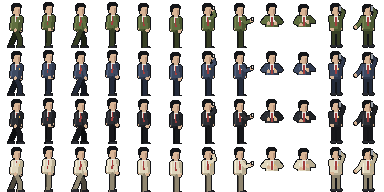
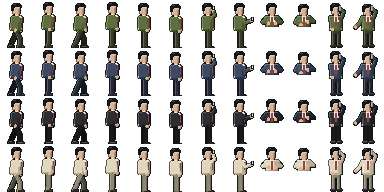
게임: 16비트 느낌으로 모든 스프라이트 다듬기, 의자가 실제 계단 칸을 따라 굴러 내려옴, 계단 아래 경쟁 사원은 서 있기, 경쟁 사원 머리·넥타이 고침
- 16비트: 왼쪽 위 하이라이트, 오른쪽 아래 두 단계 그림자, 밝은 쪽 외곽선을 옆 색으로(셀아웃), 머리카락 윤기 (사람·투척물·소품·포스트잇·계단)
- 의자: 위 계단 칸 윗면을 따라 칸마다 튀며 굴러 내려오고, 넘어가는 의자는 바로 윗칸에서 머리 위를 넘어 뒤쪽 계단 아래로 떨어짐
- 경쟁 사원 머리가 잘리던 것(고정 폭으로 자름) → 실제 머리 범위로, 옆모습 넥타이는 앞 가장자리 안쪽의 좁은 띠로
- QA: 자동 검사 0건, Designer QA 에이전트 검토 (머리카락 띠 지적 → 짧은 윤기로 고침)

diff --git a/demo_api/game.js b/demo_api/game.js
@@ -1416,7 +1416,7 @@ function drawPlayWorld() {
     const sx = 160 + (stairX(r.rivalIdx) - r.camX);
     const sy = PLAYER_Y + (-r.rivalIdx * CONFIG.stepH - r.camY);
     ctx.globalAlpha = 0.75;
-    drawSprite('rival', 'default', 'walk', time, sx, sy + 1 - Math.abs(Math.sin(time * 7)) * 1.5, { scale: MAN_SCALE, fw: 14 * MAN_SCALE, fh: 26 * MAN_SCALE, color: PAL.red, flip: dirAt(r.rivalIdx) < 0 });   // 걸으며 들썩
+    drawSprite('rival', 'default', 'idle', time, sx, sy + 1, { scale: MAN_SCALE, fw: 14 * MAN_SCALE, fh: 26 * MAN_SCALE, color: PAL.red, flip: dirAt(r.rivalIdx) < 0 });   // 계단 아래 끝에 서 있는 경쟁 사원 (서 있기)
     ctx.globalAlpha = 1;
   }
   // 플레이어
@@ -1599,16 +1599,21 @@ function drawChair(x, y, rot) {   // 사무실 의자: 남색 등받이·앉는 
   rect(-1, 0, 2, 4, '#9AA0A8'); rect(-5, 4, 10, 1, '#2A2C31'); rect(-5, 5, 2, 2, '#1E1F22'); rect(3, 5, 2, 2, '#1E1F22');
   ctx.restore();
 }
-function drawRollingChair(p, px) {   // 굴러오는 의자: 위 계단에서 통통 튀며 굴러 내려온다. 넘어가는 의자는 마지막에 크게 튀어 머리 위로 넘어가 아래로 계속 떨어진다
-  const r = run, s = p.side, tx = px + s * 8, ty = PLAYER_Y - 8, x0 = px + s * 90, y0 = PLAYER_Y - 70;
-  const u = clamp((r.time - p.spawnT) / Math.max(0.01, p.impactT - p.spawnT), 0, 1);
+function drawRollingChair(p, px) {   // 굴러오는 의자: 위 계단 칸들을 따라 한 칸씩 통통 튀며 굴러 내려온다 (칸 윗면 위).
+  // 넘어가는 의자는 바로 윗칸에서 크게 튀어 내 머리 위를 넘어 뒤쪽으로, 계단 아래로 계속 굴러 떨어진다
+  const r = run, s = p.side;
   if (r.time < p.spawnT) return;
+  const u = clamp((r.time - p.spawnT) / Math.max(0.01, p.impactT - p.spawnT), 0, 1);
+  const onTile = function (fi) { const i = Math.floor(fi), f = fi - i; return [160 + (lerp(stairX(i), stairX(i + 1), f) - r.camX), PLAYER_Y + (-fi * CONFIG.stepH - r.camY) - 7]; };   // 바퀴가 칸 윗면에 닿는 자리
   let x, y;
-  if (p.over && u > 0.75 || p.passed) {
-    const xa = lerp(x0, tx, 0.75), ya = lerp(y0, ty, 0.75);
-    if (r.time < p.impactT) { const v = (u - 0.75) / 0.25; x = lerp(xa, px - s * 30, v); y = lerp(ya, ty + 6, v) - Math.sin(v * Math.PI) * 40; }
-    else { const e = r.time - p.impactT; x = px - s * (30 + 60 * e); y = ty + 6 + 25 * e + 90 * e * e; }
-  } else { x = lerp(x0, tx, u); y = lerp(y0, ty, u) - Math.abs(Math.sin(u * Math.PI * 4)) * 8; }
+  if (p.over && (u > 0.8 || p.passed)) {
+    const a0 = onTile(r.steps + 1.2), bx = px - s * 28, by = PLAYER_Y + 4;                // 바로 윗칸에서 내 머리 위를 넘어 뒤쪽으로
+    if (r.time < p.impactT) { const v = (u - 0.8) / 0.2; x = lerp(a0[0], bx, v); y = lerp(a0[1], by, v) - Math.sin(v * Math.PI) * 38; }
+    else { const e = r.time - p.impactT; x = bx - s * 60 * e; y = by + 25 * e + 140 * e * e; }   // 계단 아래로 계속 굴러 떨어진다
+  } else {
+    const fi = lerp(r.steps + 5, p.over ? r.steps + 1.2 : r.steps + 0.35, p.over ? u / 0.8 : u), q = onTile(fi);
+    x = q[0]; y = q[1] - Math.abs(Math.sin((fi - Math.floor(fi)) * Math.PI)) * 5;          // 칸 모서리마다 튄다
+  }
   drawChair(x, y, -s * (r.time - p.spawnT) * 9);
   if (r.time >= p.spawnT && showMarks() && !p.passed) {
     const wx = clamp(x, 8, W - 8), wy = y - 20;
